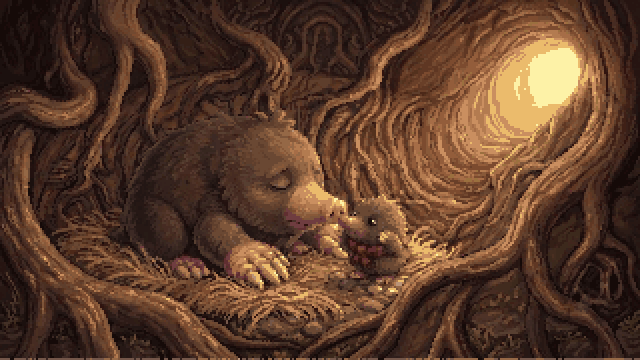
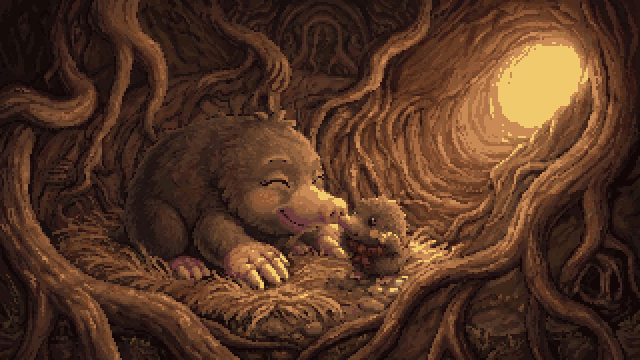
엄마 굴 일러스트: 굴은 그대로, 엄마 표정만 웃는 얼굴로(나노바나나 편집, 0126)
Claude-Session: https://claude.ai/code/session_01VNXEyeHwdhsn4oiHYXtNpM

diff --git a/docs/phase-1-combat-prototype.md b/docs/phase-1-combat-prototype.md
@@ -173,7 +173,6 @@
 ### 먼저
 - [ ] **v0.3.0에서 넘어온 판정**(0148·0149): ~~7 귀~~ 좋음, ~~10 오른쪽 스틱 조준~~ 됨(2026-10-27). 남은 것: 10의 이동 세기·메뉴 한 칸씩, 11 드릴 겨누기가 엉뚱한 적에 끌리지 않는지
 - [ ] **0152·0153 보기**: 타이틀 메뉴 뒤 둥근 그늘·고른 줄(▶ + 밝은 글), 오프닝 내레이션(아래에서 옅어지는 어둠), 안내 글의 키캡(Enter·Esc·패드 버튼이 테두리 칸으로), 타이틀 안내 두 항목
-- [ ] **엄마 굴 일러스트 다시 뽑기**(사장, 나노바나나): `docs/art/nano-banana-prompts.md`의 `mother_burrow` 새 프롬프트(웃는 입꼬리·볼 홍조·편안한 눈썹). 받으면 Claude가 바꿔 끼운다(0125). 공식 페이지 이야기 칸에도 같은 그림
 - [ ] **0156 보기**: 굴로·다음 쉼터로 갈 때 땅을 파 내려가는 단면(1.2초)이 길지 않은지, 깊이 숫자·지대 이름 카드("뿌리 지대 · 지하 12m")가 읽히는지, 비스듬한 길 지도(왼쪽 위 쉼터 → 오른쪽 아래 보스), 뿌리 지대의 빛줄기·떨어지는 흙, 심층의 물방울이 보이는지·거슬리지 않는지
 - [ ] **0154 듣기**: 타이틀(바이올린·하프)·마을(피아노·바이올린)·쉼터(피아노 왈츠)가 장소에 맞는지, 칩튠 곡과 크기가 맞는지, 마을 곡 리미터가 들리는지, 타이틀 고리가 돌 때 첫 큰 화음이 거슬리는지(거슬리면 첫 3초를 고리에서 뺀다), 마을에 들어갈 때 멈칫하는지(네이티브 157초 곡). 아들에게 피아노·바이올린이 잘 들리는지도 물어보면 좋다
 - [ ] **0151 걸어 보기**: 둘째(뿌리 동굴)·셋째(버섯 숲) 쉼터에서 길·이웃을 찾기 쉬운지, 숨은 자리(반딧불·씨앗)가 알맞게 숨었는지, 두 번째 런부터 굴 입구 곁에서 시작하는 게 어색하지 않은지

diff --git a/docs/decisions/0126-ai-illustration-mother-burrow.md b/docs/decisions/0126-ai-illustration-mother-burrow.md
@@ -17,3 +17,9 @@
 ## 확인
 - `assets/art/illust/`에서 바뀐 그림은 `mother_burrow.png`뿐이다.
 - 헤드리스: 개발 → "이야기 일러스트"의 오프닝에서 엄마 "오늘부터 네 굴을 찾아." · Naïl "응. …다녀올게!" 뒤에 새 그림이 나온다. 대화창이 Naïl의 몸 아래와 엄마 앞발을 가리지만 두 얼굴과 굴길 빛은 창 위다.
+
+## 추가(2026-10-27): 엄마 표정만 편집
+- 사장: "엄마가 너무 슬퍼 보여." 눈꼬리·입꼬리가 처진 것은 프롬프트의 "tender … a little lonely" 때문이었다.
+- 전체를 다시 뽑은 판들은 굴이 동굴처럼 매끈하거나 역할이 섞였다(엄마가 목도리). 사장이 굴은 첫 판이 더 좋다고 해서, 첫 판 원본을 첨부하고 **표정만 편집**했다(`nano-banana-prompts.md`의 편집 글). 굴·둥지·Naïl은 그대로, 엄마는 눈 감고 웃으며 볼 홍조.
+- `strip_logo.py`(n=1.09, 되돌리기) → `illust.py`. 바뀐 게임 그림은 `mother_burrow.png`뿐이고 공식 페이지 `i_mother_burrow.png`도 같이.
+
